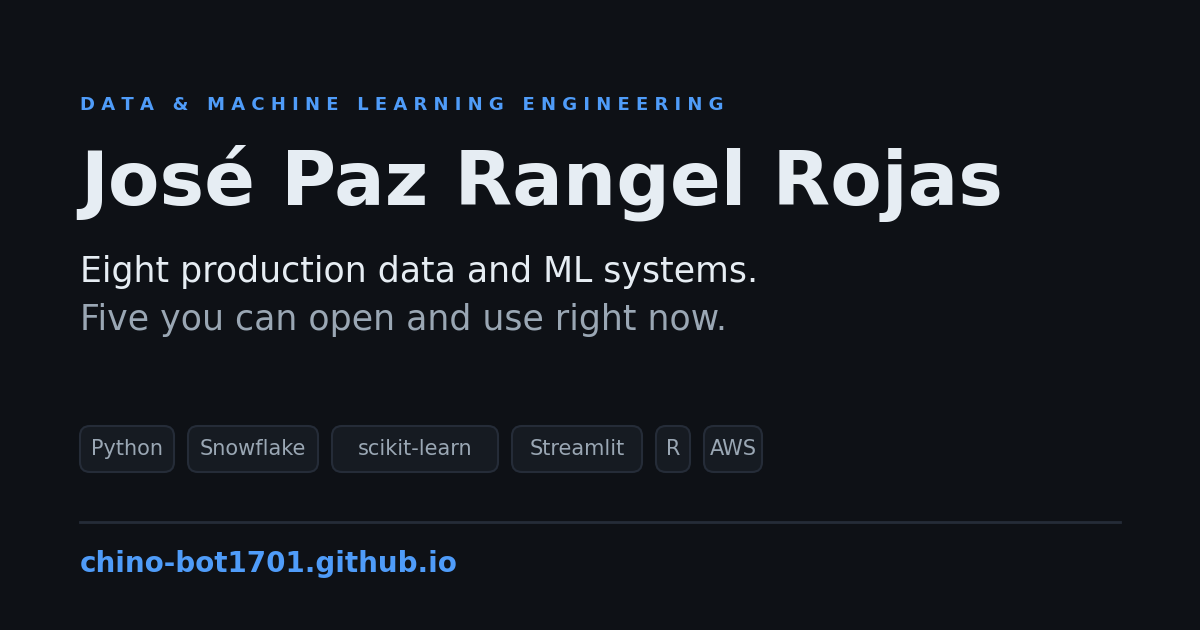
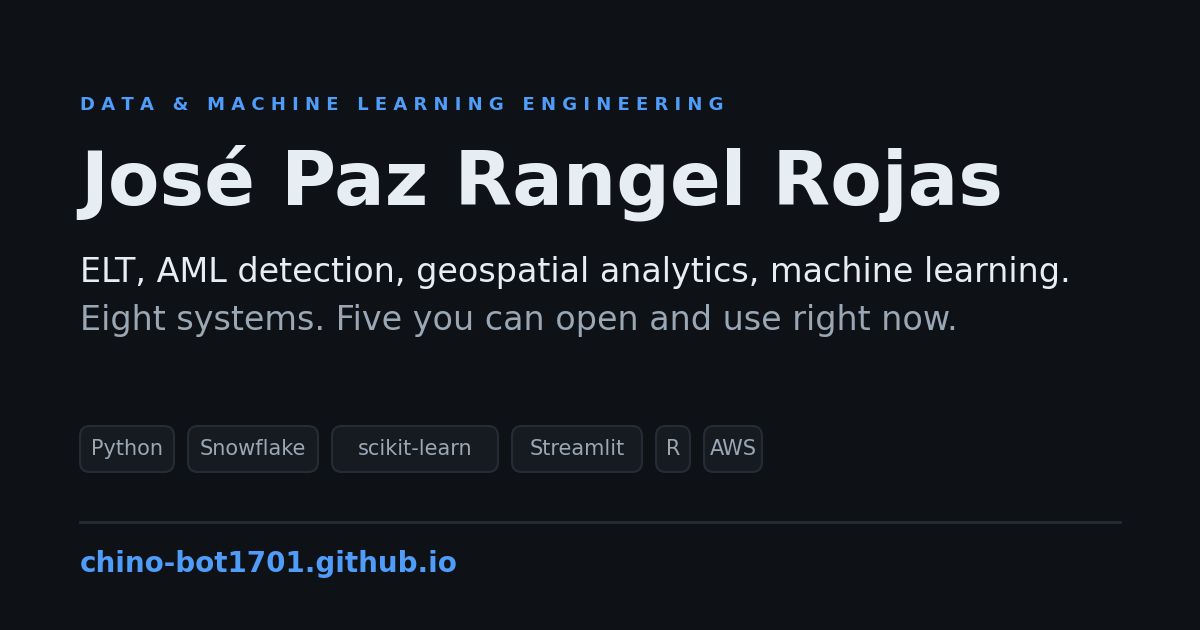
Say what the eight systems are, not that they are all ML
'Eight production data and ML systems' read as if all eight were machine
learning. Two are. The card now names the domains instead of the count, and
the AML work is called what it is rather than 'regulatory reporting'.

Changed region(s): [[0.0617, 0.3921, 0.8942, 0.4524], [0.0617, 0.4825, 0.8017, 0.5429]]

diff --git a/index.html b/index.html
@@ -4,7 +4,7 @@
 <meta charset="UTF-8">
 <meta name="viewport" content="width=device-width, initial-scale=1.0">
 <title>José Paz Rangel Rojas — Data &amp; Machine Learning Engineering</title>
-<meta name="description" content="Eight production data and ML systems: incremental ELT into Snowflake, AML regulatory reporting, geospatial dashboards, land valuation and unsupervised anomaly detection. Five with live demos.">
+<meta name="description" content="Eight data systems: incremental ELT into Snowflake, anti-money-laundering reporting and detection, geospatial dashboards, and land valuation with calibrated intervals. Five with live demos.">
 
 <!-- Tarjeta de vista previa. Sin esto, LinkedIn, WhatsApp y Slack muestran
      una ilustración genérica al compartir el link — y este es el único
@@ -12,14 +12,14 @@
 <meta property="og:type" content="website">
 <meta property="og:url" content="https://chino-bot1701.github.io/">
 <meta property="og:title" content="José Paz Rangel Rojas — Data &amp; Machine Learning Engineering">
-<meta property="og:description" content="Eight production data and ML systems. Five you can open and use right now.">
+<meta property="og:description" content="ELT, AML detection, geospatial analytics, machine learning. Eight systems, five with live demos you can open right now.">
 <meta property="og:image" content="https://chino-bot1701.github.io/og.png">
 <meta property="og:image:width" content="1200">
 <meta property="og:image:height" content="630">
 <meta property="og:locale" content="en_US">
 <meta name="twitter:card" content="summary_large_image">
 <meta name="twitter:title" content="José Paz Rangel Rojas — Data &amp; Machine Learning Engineering">
-<meta name="twitter:description" content="Eight production data and ML systems. Five you can open and use right now.">
+<meta name="twitter:description" content="ELT, AML detection, geospatial analytics, machine learning. Eight systems, five with live demos you can open right now.">
 <meta name="twitter:image" content="https://chino-bot1701.github.io/og.png">
 
 <style>
